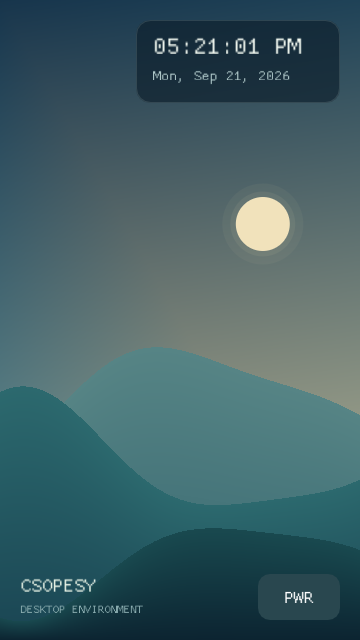
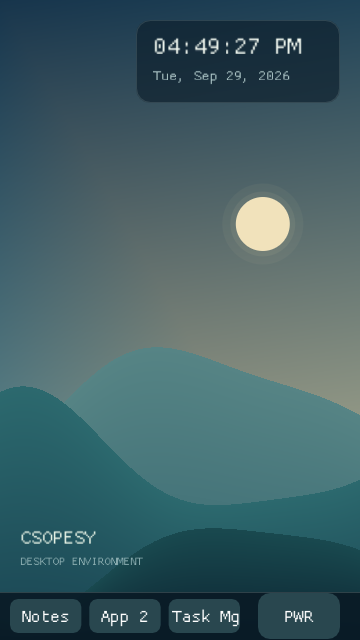
simple calculator for app2

diff --git a/src/app2.h b/src/app2.h
@@ -1,0 +1,4 @@
+#pragma once
+
+// App 2: Simple Calculator
+void DrawApp2(bool& isOpen);
